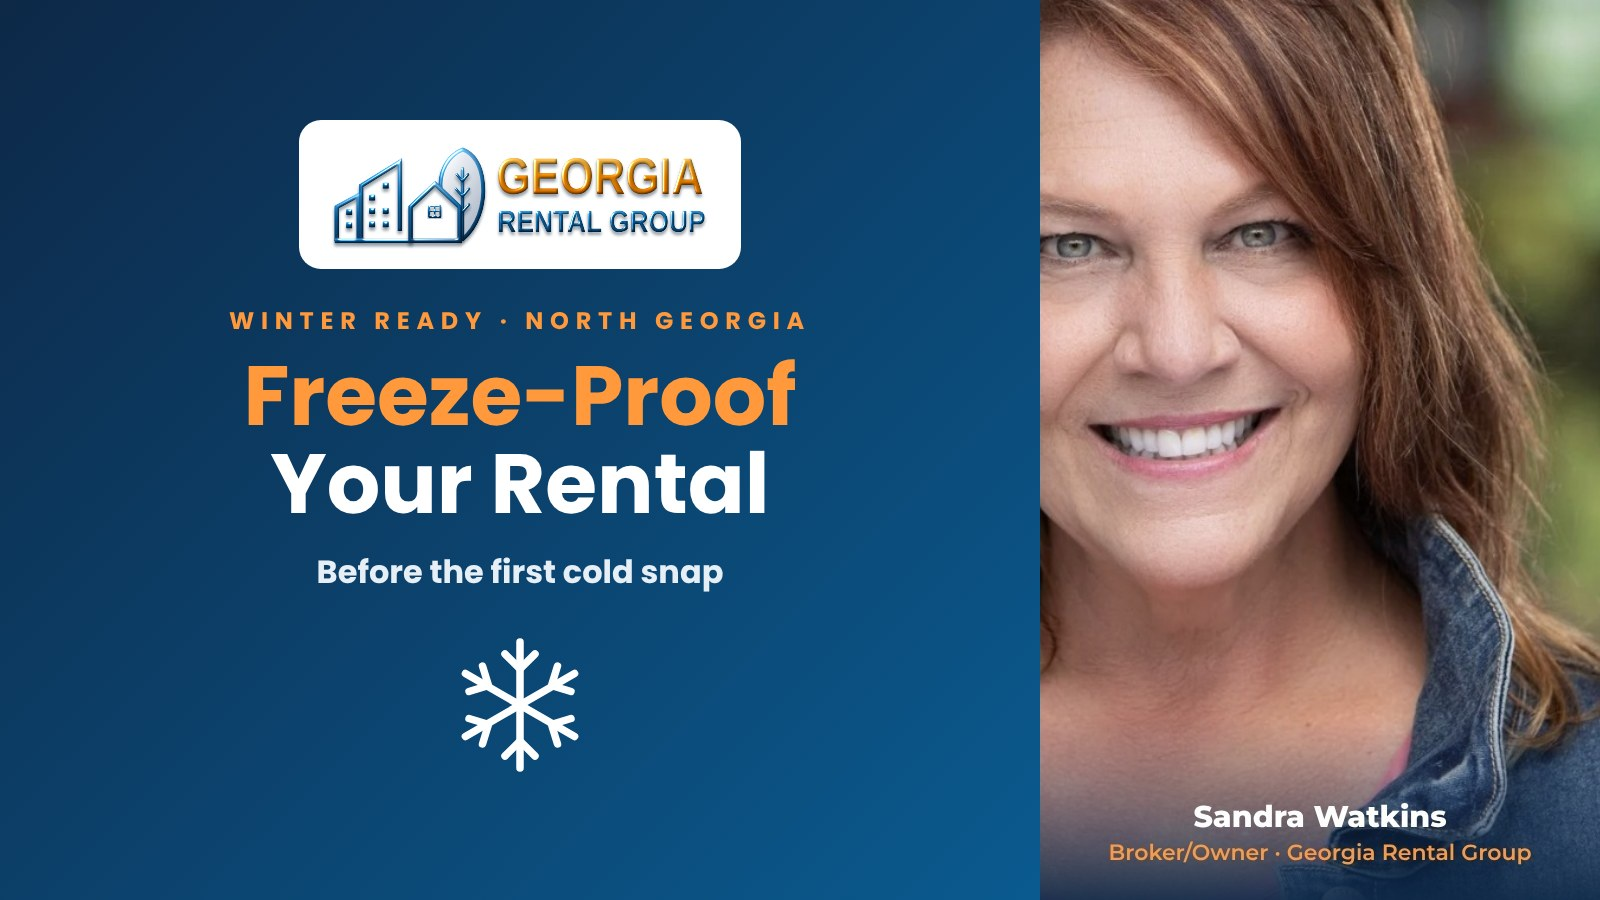
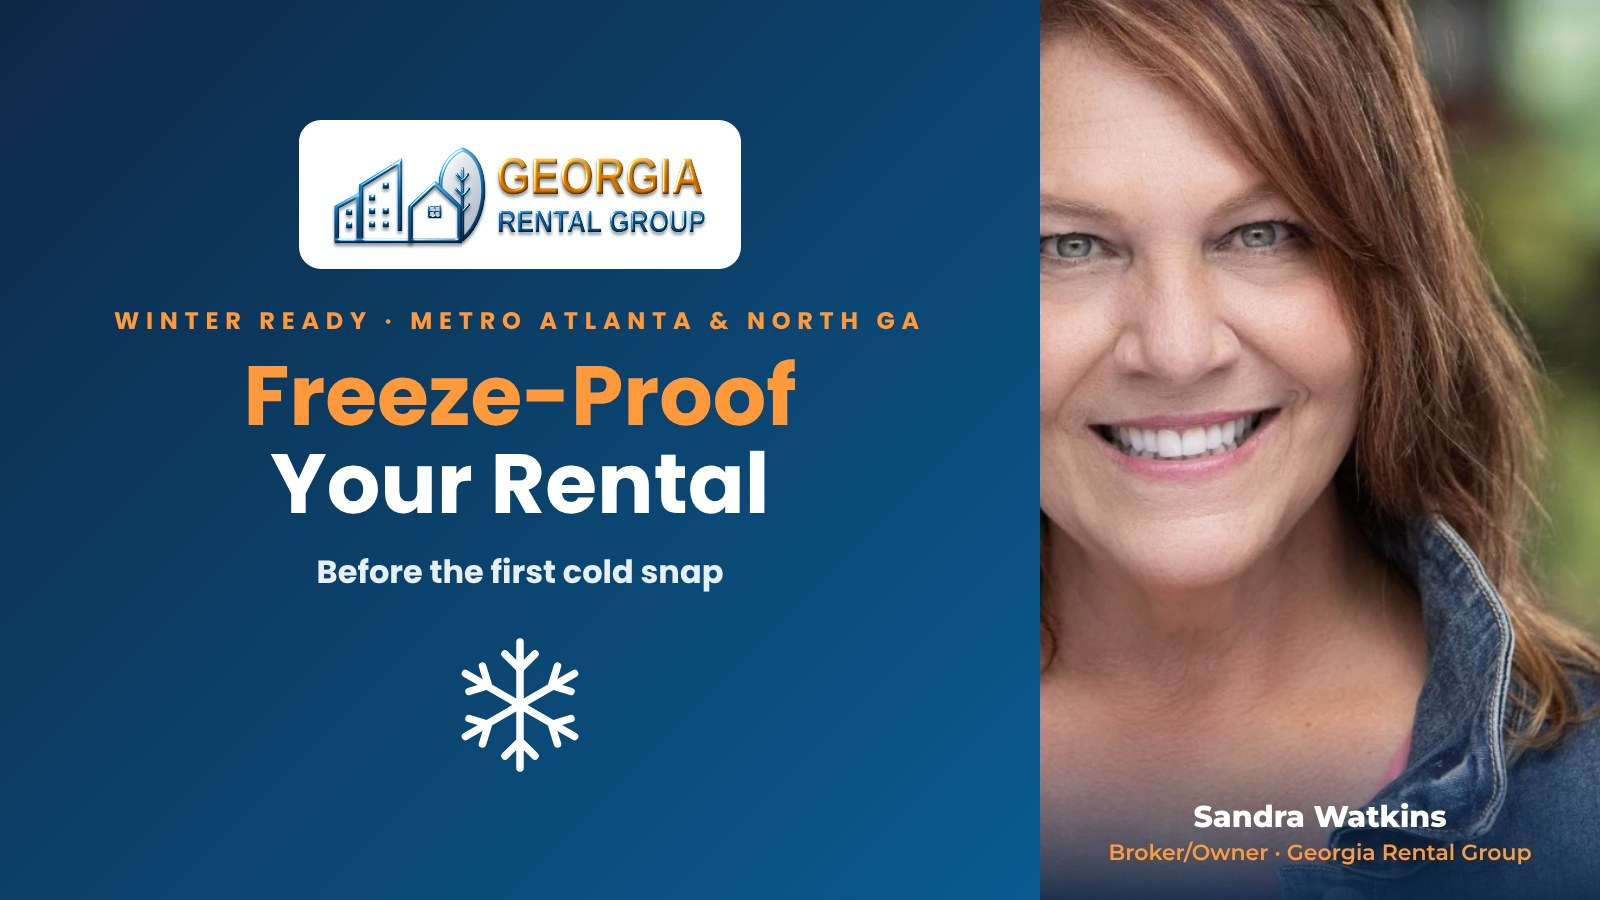
Freeze-proof post: add Metro Atlanta
Claude-Session: https://claude.ai/code/session_01VuTSiWNx7ToNbE8bhXXjyr

Changed region(s): [[0.0625, 0.3422, 0.5938, 0.3733]]

diff --git a/index.html b/index.html
@@ -73,7 +73,7 @@ footer a{color:#fff;text-decoration:none;display:block;margin:4px 0}
 </style><script type="application/ld+json">{"@context": "https://schema.org", "@type": "Blog", "name": "Georgia Rental Group Blog", "url": "https://blog.georgiarentalgroup.com/", "publisher": {"@type": "Organization", "name": "Georgia Rental Group", "telephone": "+1-770-324-3680", "address": {"@type": "PostalAddress", "streetAddress": "3760 Sixes Road, Suite 108", "addressLocality": "Canton", "addressRegion": "GA", "postalCode": "30114"}}}</script><script>function loadScript(a){var b=document.getElementsByTagName("head")[0],c=document.createElement("script");c.type="text/javascript",c.src="https://tracker.metricool.com/resources/be.js",c.onreadystatechange=a,c.onload=a,b.appendChild(c)}loadScript(function(){beTracker.t({hash:"7e4922e6150e6b35f8cdf974e4d48cec"})});</script></head><body>
 <div class="bar"><div class="in"><span>Broker-owned property management in Canton, GA since 1998</span><a class="call" href="tel:7703243680">Call or text 770-324-3680</a></div></div>
 <header><div class="in"><a href="https://georgiarentalgroup2.managebuilding.com/Resident/public/home"><img src="/logo.png" alt="Georgia Rental Group" width="513" height="140" style="width:auto"></a><nav><a href="https://georgiarentalgroup2.managebuilding.com/Resident/public/home">Home</a><a href="https://u10777.rently.com/propertiesSearch2" target="_blank" rel="noopener">Rentals</a><a href="https://georgiarentalgroup2.managebuilding.com/Resident/public/custom/22">Owners</a><a href="https://georgiarentalgroup2.managebuilding.com/Resident/public/custom/20">About</a><a href="/" class=on>Blog</a><a href="/videos/">Video Q&amp;A</a><a href="/rental-tours/">Rental Tours</a><a href="https://georgiarentalgroup2.managebuilding.com/Resident/public/contact">Contact</a></nav></div></header>
-<main class="wrap"><section class="hero"><span class="eyebrow">The Georgia Rental Group Blog</span><h1>Straight talk on renting, owning and managing in North Georgia.</h1><p>Real answers for rental owners and renters in Canton, Woodstock and across Cherokee County, from Sandra Watkins, Broker/Owner.</p><div class="share" aria-label="Share this page"><span>Share</span><a href="https://www.facebook.com/sharer/sharer.php?u=https://blog.georgiarentalgroup.com/" target="_blank" rel="noopener">Facebook</a><a href="https://www.linkedin.com/sharing/share-offsite/?url=https://blog.georgiarentalgroup.com/" target="_blank" rel="noopener">LinkedIn</a><a href="https://twitter.com/intent/tweet?url=https://blog.georgiarentalgroup.com/&amp;text=The%20Georgia%20Rental%20Group%20Blog" target="_blank" rel="noopener">X</a><a href="sms:?&amp;body=The%20Georgia%20Rental%20Group%20Blog%20https%3A%2F%2Fblog.georgiarentalgroup.com%2F">Text</a><a href="mailto:?subject=The%20Georgia%20Rental%20Group%20Blog&amp;body=https://blog.georgiarentalgroup.com/">Email</a><button type="button" onclick="navigator.clipboard.writeText(location.href.split('#')[0]).then(()=>{this.textContent='Link copied'}).catch(()=>{window.prompt('Copy this link:',location.href)})">Copy link</button></div></section><div class="grid"><a class="card" href="/freeze-proof-rental-georgia/"><img src="/img/freeze-proof-rental.jpg" alt="Freeze-proof your rental before the first cold snap, with Sandra Watkins of Georgia Rental Group" loading="lazy" width="1600" height="900"><span class="meta">November 20, 2026</span><h2>Freeze-Proof Your Georgia Rental Before the First Cold Snap</h2><p>Most frozen-pipe damage is preventable with five minutes of work. Here's the checklist for owners, vacant homes and tenants.</p><span class="more">Read more →</span></a><a class="card" href="/eviction-records-sealed-georgia/"><img src="/img/freeze-proof-rental.jpg" alt="Georgia eviction records can be sealed starting January 1, 2027" loading="lazy" width="1600" height="900"><span class="meta">November 17, 2026</span><h2>Georgia Eviction Records Can Be Sealed Jan. 1: What Owners Should Know</h2><p>Some eviction records can be sealed starting in 2027. Here's what that means for screening your next tenant.</p><span class="more">Read more →</span></a><a class="card" href="/georgia-new-hoa-law-rental-owners/"><img src="/img/hoa-law.jpg" alt="Aerial view of an HOA neighborhood in North Georgia" loading="lazy" width="1600" height="900"><span class="meta">November 13, 2026</span><h2>Georgia's New HOA Law: What Rental Owners Need to Know</h2><p>Fines, dues, foreclosure limits and a new state complaint process all change January 1. Here's what it means for your rental.</p><span class="more">Read more →</span></a><a class="card" href="/property-management-cost-cherokee-county/"><img src="/img/cost.jpg" alt="Two-story rental home with a one-car garage in Cherokee County, Georgia, managed by Georgia Rental Group" loading="lazy" width="1600" height="900"><span class="meta">November 12, 2026</span><h2>What Does Property Management Cost in Cherokee County, GA?</h2><p>Every manager quotes a monthly fee. The fees that hurt are the ones nobody mentions on the first call. Here's what to ask, and exactly what we charge.</p><span class="more">Read more →</span></a><a class="card" href="/should-i-rent-or-sell-my-house/"><img src="/img/rent-or-sell.jpg" alt="Brick and siding townhomes with one-car garages in North Georgia" loading="lazy" width="1600" height="900"><span class="meta">November 12, 2026</span><h2>Should I Rent My House or Sell It? A Canton, GA Broker's Guide</h2><p>There's no one right answer, but there is a right way to figure it out. Here are the numbers I run with every owner before they decide.</p><span class="more">Read more →</span></a><a class="card" href="/how-to-choose-a-property-manager/"><img src="/img/choose-manager.jpg" alt="Fenced backyard of a rental home managed by Georgia Rental Group in Cherokee County, Georgia" loading="lazy" width="1600" height="900"><span class="meta">November 12, 2026</span><h2>How to Choose a Property Manager in North Georgia: 10 Questions to Ask</h2><p>Most owner complaints about property managers come down to one thing: silence. These 10 questions will tell you who you're really hiring.</p><span class="more">Read more →</span></a></div></main>
+<main class="wrap"><section class="hero"><span class="eyebrow">The Georgia Rental Group Blog</span><h1>Straight talk on renting, owning and managing in North Georgia.</h1><p>Real answers for rental owners and renters in Canton, Woodstock and across Cherokee County, from Sandra Watkins, Broker/Owner.</p><div class="share" aria-label="Share this page"><span>Share</span><a href="https://www.facebook.com/sharer/sharer.php?u=https://blog.georgiarentalgroup.com/" target="_blank" rel="noopener">Facebook</a><a href="https://www.linkedin.com/sharing/share-offsite/?url=https://blog.georgiarentalgroup.com/" target="_blank" rel="noopener">LinkedIn</a><a href="https://twitter.com/intent/tweet?url=https://blog.georgiarentalgroup.com/&amp;text=The%20Georgia%20Rental%20Group%20Blog" target="_blank" rel="noopener">X</a><a href="sms:?&amp;body=The%20Georgia%20Rental%20Group%20Blog%20https%3A%2F%2Fblog.georgiarentalgroup.com%2F">Text</a><a href="mailto:?subject=The%20Georgia%20Rental%20Group%20Blog&amp;body=https://blog.georgiarentalgroup.com/">Email</a><button type="button" onclick="navigator.clipboard.writeText(location.href.split('#')[0]).then(()=>{this.textContent='Link copied'}).catch(()=>{window.prompt('Copy this link:',location.href)})">Copy link</button></div></section><div class="grid"><a class="card" href="/freeze-proof-rental-georgia/"><img src="/img/freeze-proof-rental.jpg" alt="Freeze-proof your rental before the first cold snap, with Sandra Watkins of Georgia Rental Group" loading="lazy" width="1600" height="900"><span class="meta">November 20, 2026</span><h2>Freeze-Proof Your Georgia Rental Before the First Cold Snap</h2><p>Most frozen-pipe damage is preventable with five minutes of work. Here's the checklist for Metro Atlanta and North Georgia owners, vacant homes and tenants.</p><span class="more">Read more →</span></a><a class="card" href="/eviction-records-sealed-georgia/"><img src="/img/freeze-proof-rental.jpg" alt="Georgia eviction records can be sealed starting January 1, 2027" loading="lazy" width="1600" height="900"><span class="meta">November 17, 2026</span><h2>Georgia Eviction Records Can Be Sealed Jan. 1: What Owners Should Know</h2><p>Some eviction records can be sealed starting in 2027. Here's what that means for screening your next tenant.</p><span class="more">Read more →</span></a><a class="card" href="/georgia-new-hoa-law-rental-owners/"><img src="/img/hoa-law.jpg" alt="Aerial view of an HOA neighborhood in North Georgia" loading="lazy" width="1600" height="900"><span class="meta">November 13, 2026</span><h2>Georgia's New HOA Law: What Rental Owners Need to Know</h2><p>Fines, dues, foreclosure limits and a new state complaint process all change January 1. Here's what it means for your rental.</p><span class="more">Read more →</span></a><a class="card" href="/property-management-cost-cherokee-county/"><img src="/img/cost.jpg" alt="Two-story rental home with a one-car garage in Cherokee County, Georgia, managed by Georgia Rental Group" loading="lazy" width="1600" height="900"><span class="meta">November 12, 2026</span><h2>What Does Property Management Cost in Cherokee County, GA?</h2><p>Every manager quotes a monthly fee. The fees that hurt are the ones nobody mentions on the first call. Here's what to ask, and exactly what we charge.</p><span class="more">Read more →</span></a><a class="card" href="/should-i-rent-or-sell-my-house/"><img src="/img/rent-or-sell.jpg" alt="Brick and siding townhomes with one-car garages in North Georgia" loading="lazy" width="1600" height="900"><span class="meta">November 12, 2026</span><h2>Should I Rent My House or Sell It? A Canton, GA Broker's Guide</h2><p>There's no one right answer, but there is a right way to figure it out. Here are the numbers I run with every owner before they decide.</p><span class="more">Read more →</span></a><a class="card" href="/how-to-choose-a-property-manager/"><img src="/img/choose-manager.jpg" alt="Fenced backyard of a rental home managed by Georgia Rental Group in Cherokee County, Georgia" loading="lazy" width="1600" height="900"><span class="meta">November 12, 2026</span><h2>How to Choose a Property Manager in North Georgia: 10 Questions to Ask</h2><p>Most owner complaints about property managers come down to one thing: silence. These 10 questions will tell you who you're really hiring.</p><span class="more">Read more →</span></a></div></main>
 <footer><div class="in">
 <div><b>Georgia Rental Group</b>Broker-owned property management by Sandra Watkins, Broker/Owner. Serving Cherokee, Cobb, Paulding, Bartow, Gordon, Pickens, Gilmer and North Fulton counties.<br><br>3760 Sixes Road, Suite 108<br>Canton, GA 30114<br><a href="tel:7703243680">770-324-3680</a><a href="mailto:georgiarentalgroup@gmail.com">georgiarentalgroup@gmail.com</a></div>
 <div><b>Owners</b><a href="https://georgiarentalgroup2.managebuilding.com/Resident/public/custom/22">Property management</a><a href="https://calendly.com/sandra-524/30min">Book a free call</a><a href="https://georgiarentalgroup2.managebuilding.com/Resident/public/custom/23">Owner guides &amp; FAQ</a></div>

diff --git a/freeze-proof-rental-georgia/index.html b/freeze-proof-rental-georgia/index.html
@@ -56,9 +56,9 @@ footer a { color: #fff; text-decoration: none; display: block; margin: 4px 0px; 
 .share a:hover, .share button:hover { border-color: var(--orange); color: #c96a12; }
 </style><meta name="viewport" content="width=device-width,initial-scale=1">
 <title>Freeze-Proof Your Georgia Rental Before the First Cold Snap | Georgia Rental Group</title>
-<meta name="description" content="How to keep pipes from freezing in a rental home in Canton, Cherokee County and North Georgia: a 5-minute owner checklist, vacant-home tips and what to tell your tenants.">
+<meta name="description" content="How to keep pipes from freezing in a rental home in Canton, Cherokee County, Metro Atlanta and North Georgia: a 5-minute owner checklist, vacant-home tips and what to tell your tenants.">
 <link rel="canonical" href="https://blog.georgiarentalgroup.com/freeze-proof-rental-georgia/">
-<meta property="og:title" content="Freeze-Proof Your Georgia Rental Before the First Cold Snap | Georgia Rental Group"><meta property="og:description" content="How to keep pipes from freezing in a rental home in Canton, Cherokee County and North Georgia: a 5-minute owner checklist, vacant-home tips and what to tell your tenants."><meta property="og:url" content="https://blog.georgiarentalgroup.com/freeze-proof-rental-georgia/"><meta property="og:type" content="website"><meta property="og:image" content="https://blog.georgiarentalgroup.com/img/freeze-proof-rental.jpg">
+<meta property="og:title" content="Freeze-Proof Your Georgia Rental Before the First Cold Snap | Georgia Rental Group"><meta property="og:description" content="How to keep pipes from freezing in a rental home in Canton, Cherokee County, Metro Atlanta and North Georgia: a 5-minute owner checklist, vacant-home tips and what to tell your tenants."><meta property="og:url" content="https://blog.georgiarentalgroup.com/freeze-proof-rental-georgia/"><meta property="og:type" content="website"><meta property="og:image" content="https://blog.georgiarentalgroup.com/img/freeze-proof-rental.jpg">
 <meta property="og:image:secure_url" content="https://blog.georgiarentalgroup.com/img/freeze-proof-rental.jpg">
 <meta property="og:image:type" content="image/jpeg">
 <meta property="og:image:width" content="1600">
@@ -67,7 +67,7 @@ footer a { color: #fff; text-decoration: none; display: block; margin: 4px 0px; 
 <meta name="twitter:image" content="https://blog.georgiarentalgroup.com/img/freeze-proof-rental.jpg"><meta name="twitter:card" content="summary_large_image"><meta property="og:site_name" content="Georgia Rental Group">
 <link rel="alternate" type="application/rss+xml" title="Georgia Rental Group Blog" href="https://blog.georgiarentalgroup.com/feed.xml"><link rel="icon" href="https://blog.georgiarentalgroup.com/logo.svg"><link rel="preconnect" href="https://fonts.googleapis.com/"><link rel="preconnect" href="https://fonts.gstatic.com/" crossorigin="">
 <link href="https://fonts.googleapis.com/css2?family=Montserrat:wght@700;800;900&amp;family=Inter:wght@400;600;700&amp;display=swap" rel="stylesheet">
-<script type="application/ld+json">{"@context": "https://schema.org", "@type": "BlogPosting", "headline": "Freeze-Proof Your Georgia Rental Before the First Cold Snap", "description": "How to keep pipes from freezing in a rental home in Canton, Cherokee County and North Georgia: a 5-minute owner checklist, vacant-home tips and what to tell your tenants.", "image": "https://blog.georgiarentalgroup.com/img/freeze-proof-rental.jpg", "datePublished": "2026-11-20", "dateModified": "2026-11-20", "author": {"@type": "Person", "name": "Sandra Watkins", "jobTitle": "Broker/Owner"}, "publisher": {"@type": "Organization", "name": "Georgia Rental Group", "logo": {"@type": "ImageObject", "url": "https://blog.georgiarentalgroup.com/logo.png"}}, "mainEntityOfPage": "https://blog.georgiarentalgroup.com/freeze-proof-rental-georgia/"}</script>
+<script type="application/ld+json">{"@context": "https://schema.org", "@type": "BlogPosting", "headline": "Freeze-Proof Your Georgia Rental Before the First Cold Snap", "description": "How to keep pipes from freezing in a rental home in Canton, Cherokee County, Metro Atlanta and North Georgia: a 5-minute owner checklist, vacant-home tips and what to tell your tenants.", "image": "https://blog.georgiarentalgroup.com/img/freeze-proof-rental.jpg", "datePublished": "2026-11-20", "dateModified": "2026-11-20", "author": {"@type": "Person", "name": "Sandra Watkins", "jobTitle": "Broker/Owner"}, "publisher": {"@type": "Organization", "name": "Georgia Rental Group", "logo": {"@type": "ImageObject", "url": "https://blog.georgiarentalgroup.com/logo.png"}}, "mainEntityOfPage": "https://blog.georgiarentalgroup.com/freeze-proof-rental-georgia/"}</script>
 <script type="application/ld+json">{"@context": "https://schema.org", "@type": "FAQPage", "mainEntity": [{"@type": "Question", "name": "How do I keep pipes from freezing in a rental house?", "acceptedAnswer": {"@type": "Answer", "text": "Disconnect hoses, cover outdoor spigots, keep the heat on, close crawl space vents for the winter, and have tenants drip faucets and open sink cabinets on the coldest nights. Make sure everyone knows where the main water shutoff is."}}, {"@type": "Question", "name": "What temperature should a vacant rental be kept at in winter?", "acceptedAnswer": {"@type": "Answer", "text": "Keep the heat on and set to a steady temperature. Many insurers and plumbers suggest no lower than about 55 degrees. Check your policy, since some require the heat on for vacant homes."}}, {"@type": "Question", "name": "Who pays for frozen pipe damage in a Georgia rental?", "acceptedAnswer": {"@type": "Answer", "text": "It depends on the cause and your lease. Damage from a failed pipe is usually the owner's repair and insurance claim, while damage caused by a tenant's neglect, like turning the heat off, may be the tenant's responsibility. Your lease and insurance policy decide it."}}]}</script>
 <script>function loadScript(a){var b=document.getElementsByTagName("head")[0],c=document.createElement("script");c.type="text/javascript",c.src="https://tracker.metricool.com/resources/be.js",c.onreadystatechange=a,c.onload=a,b.appendChild(c)}loadScript(function(){beTracker.t({hash:"7e4922e6150e6b35f8cdf974e4d48cec"})});</script></head><body>
 <div class="bar"><div class="in"><span>Broker-owned property management in Canton, GA since 1998</span><a class="call" href="tel:7703243680">Call or text 770-324-3680</a></div></div>
@@ -90,7 +90,7 @@ footer a { color: #fff; text-decoration: none; display: block; margin: 4px 0px; 
 <button type="button" onclick="navigator.clipboard&&navigator.clipboard.writeText(location.href);this.textContent='Copied'">Copy link</button>
 </div>
 <p>Remember last January? Winter Storm Fern rolled in, Governor Kemp put all 159 Georgia counties under a state of emergency from January 22 through January 29, and wind chills north of I-20 dropped below 10 degrees. Plenty of us spent that week hoping the pipes held.</p>
-<p>In a rental, a burst pipe isn't just a mess. It's a water claim, a tenant who may not have a livable home, and a repair bill that always seems to land right around the holidays. The good news: most freeze damage is preventable with about five minutes of work before the first hard freeze.</p>
+<p>In a rental, a burst pipe isn't just a mess. It's a water claim, a tenant who may not have a livable home, and a repair bill that always seems to land right around the holidays. The good news: for rental owners across Metro Atlanta and North Georgia, most freeze damage is preventable with about five minutes of work before the first hard freeze.</p>
 <div class="box"><p><b>The short version:</b> Hoses off, spigots covered, crawl space closed up, heat on, and everyone knows where the water shutoff is. Vacant homes need a little extra attention, and your tenants need a heads-up before every hard freeze.</p></div>
 
 <h2>The 5-minute owner checklist</h2>
